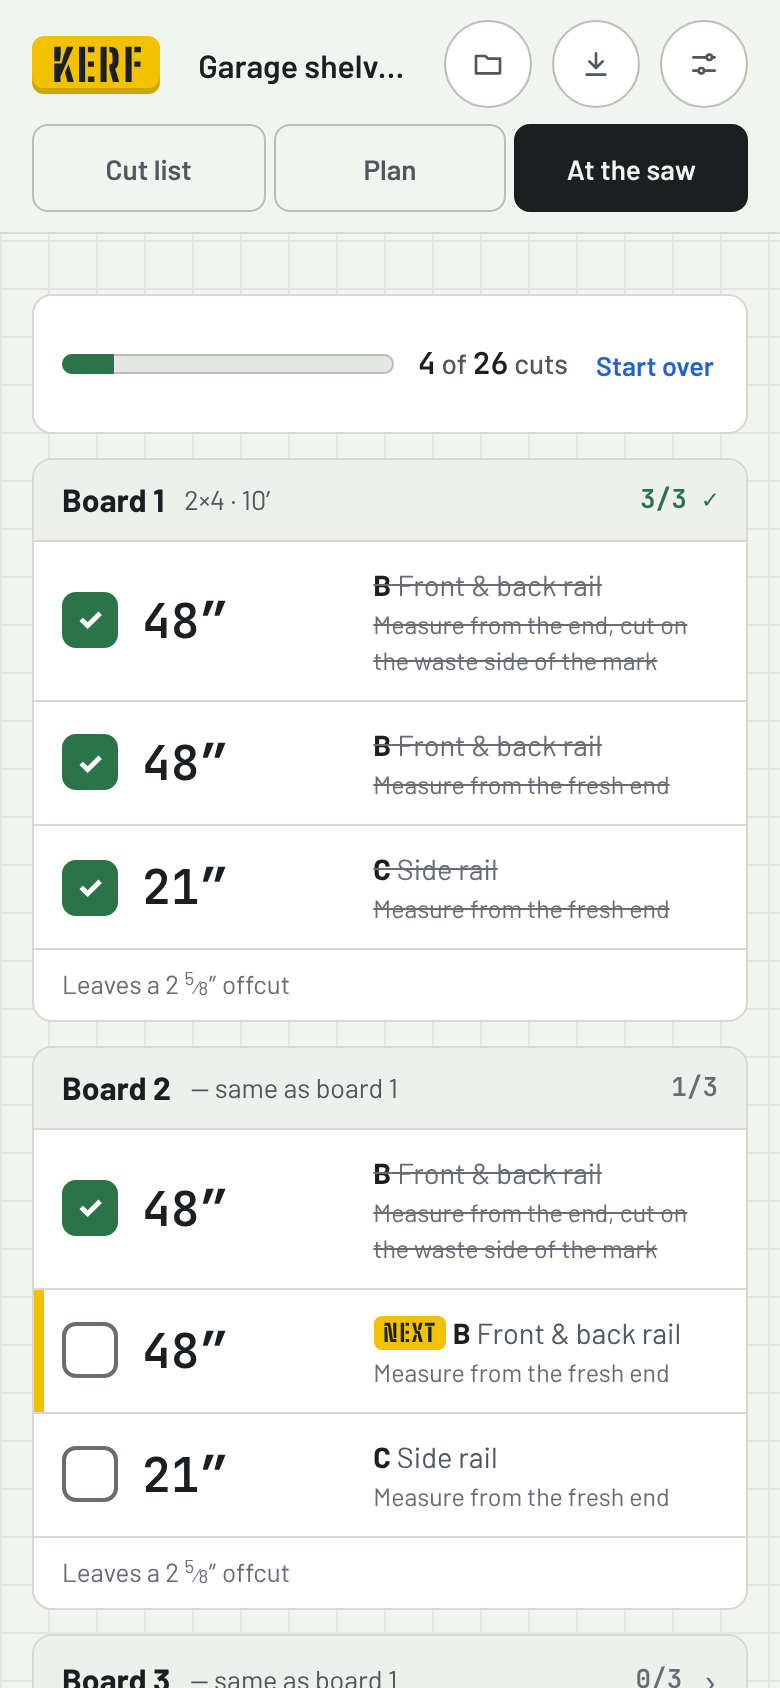
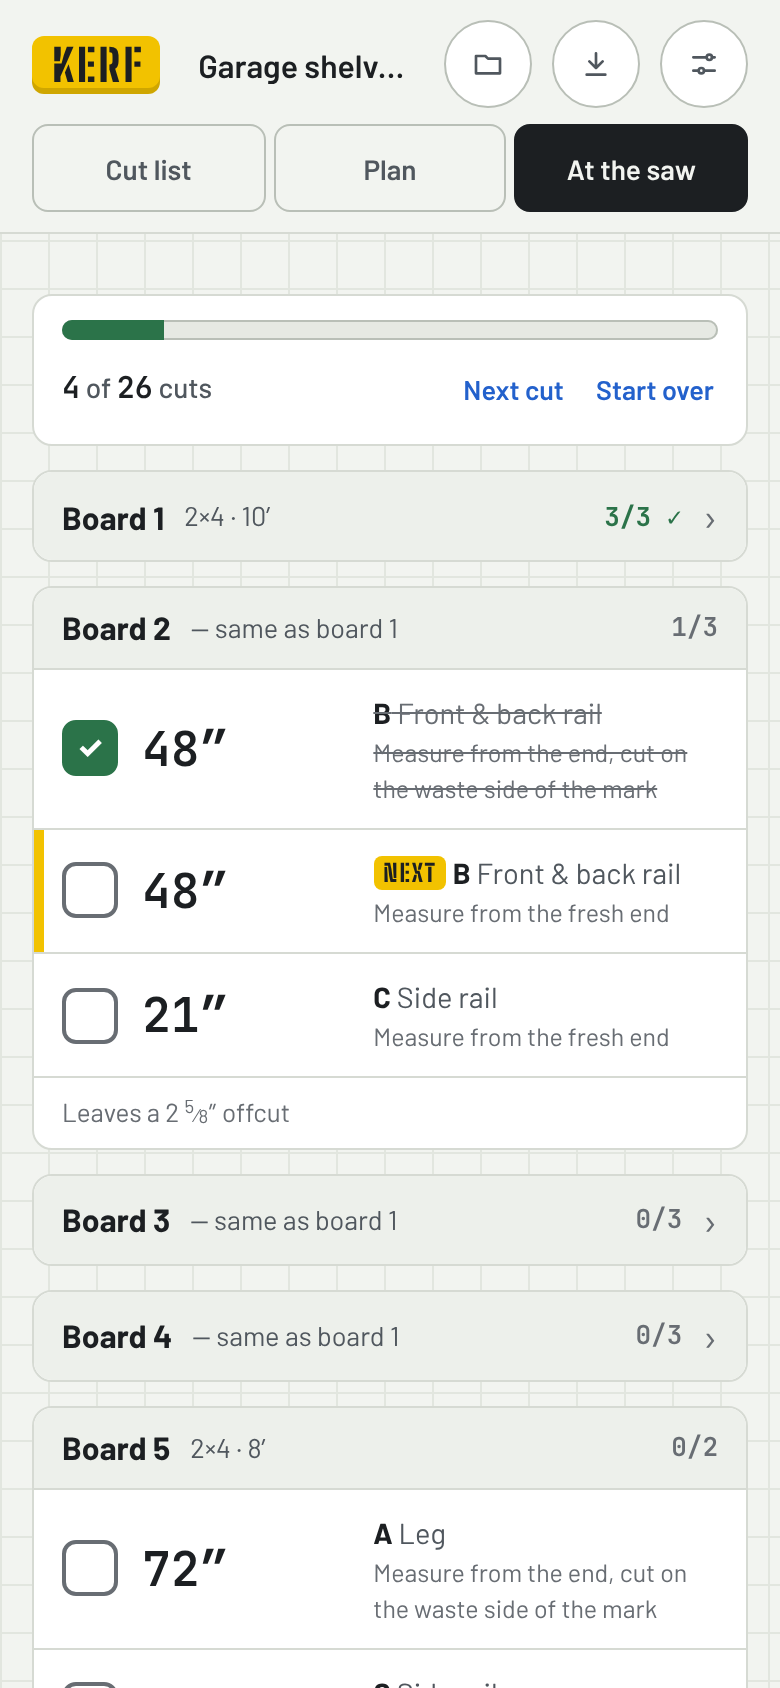
Redraw the saw's picture with board 1 folded and the bar's Next cut
The README's picture at the saw showed board 1 open with its three cuts ticked; it's folded to its heading now, and
the bar has Next cut. screenshots.mjs ticked the first four cuts by their place on screen, which once board 1
folds lands on board 5; it ticks the next cut not ticked instead. The picture's description follows.

Claude-Session: https://claude.ai/code/session_01PQbLNSZBMRZG8siQy7LTL3

diff --git a/README.md b/README.md
@@ -9,7 +9,7 @@
   &nbsp;
   <img src="docs/phone-plan.png" alt="The plan: $100.64 to buy, the 2×4s the cheapest possible, for 8 boards and 1 sheet in 26 cuts, a tip that making the front and back rails 47 15/16 inches instead of 48 means spending $4.12 less on 2×4 and leaves no spare length on the 8-foot boards, and the shopping list" width="250">
   &nbsp;
-  <img src="docs/phone-saw.png" alt="At the saw, 4 of 26 cuts done: board 1, a 10-foot 2×4, with its three cuts ticked off and a 2 5/8 inch offcut left, and board 2, the same as board 1, open with its first cut ticked and the second marked as the next cut" width="250">
+  <img src="docs/phone-saw.png" alt="At the saw, 4 of 26 cuts done, with Next cut and Start over in the bar at the top: board 1, a 10-foot 2×4, folded to its heading with its three cuts done, and board 2, the same as board 1, open with its first cut ticked and the second marked as the next cut" width="250">
 </p>
 
 ## How it works
